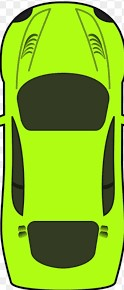
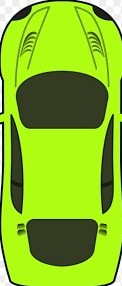
adding the shaddow on the car

Changed region(s): [[0.0, 0.0, 1.0, 1.0], [0.2459, 0.4476, 0.7869, 0.4755]]

diff --git a/style.css b/style.css
@@ -56,12 +56,13 @@ html{
     height: 9.5rem;
     background-color: red;
     position: absolute;
-    border-radius: 1.4rem;
+    border-radius: 1.8rem 1.8rem 1.3rem 1.3rem;
     z-index: 1;
 }
 .car{
     background: url(./image/bluecar.jpg) no-repeat;
     background-size: 100% 100%;
+    box-shadow: 0px -20px 10px 3px lightyellow, 0px 5px 10px 2px rgb(153, 43, 24);
 
 }
 
